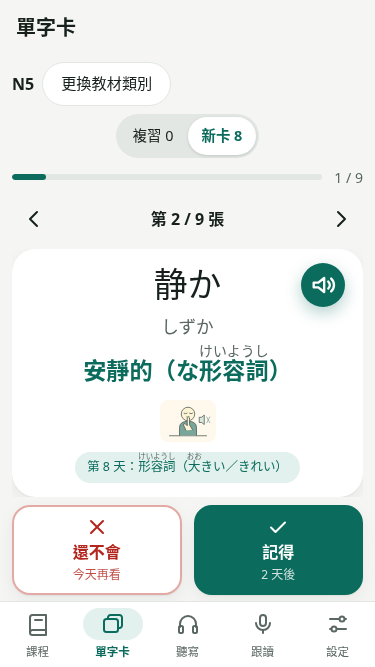
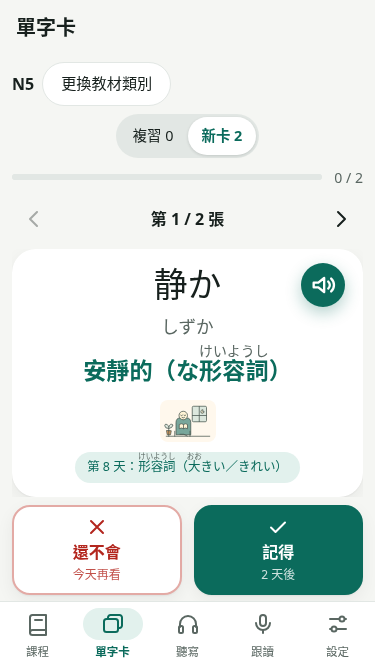
fix: clarify repeat action and quiet scene illustrations

diff --git a/docs/vocab-illustration-semantic-prototype.md b/docs/vocab-illustration-semantic-prototype.md
@@ -13,22 +13,22 @@
 | 渡す／わたす | 交給、遞（て形：渡して） | stage0-day14:渡す | handing.svg | 左方主動者伸手把盒子交向右方收件者，色彩及箭頭提示交付方向。 |
 | 重い／おもい | 重的 | stage0-day8:重い | heavy.svg | 彎膝且吃力的人抱重物並出汗，重點是負重特徵，不是石塊本身。 |
 | 冷たい／つめたい | 冰的、涼的（東西、水） | stage0-day12:冷たい | cold.svg | 手接觸有冰塊的冷水杯，表現物體冷的觸感，不用全身發抖代替天氣冷。 |
-| 静か／しずか | 安靜的（な形容詞） | stage0-day8:静か | quiet.svg | 安靜姿態與弱化聲音符號，輔助安靜狀態；不修改原有な形容詞解說。 |
+| 静か／しずか | 安靜的（な形容詞） | stage0-day8:静か | quiet.svg | 窗邊座椅、盆栽與放鬆閱讀者構成安靜環境；以環境狀態輔助，不用噤聲或禁止符號。 |
 | 約束／やくそく | 約定 | general-listening-03:約束 | promise.svg | 握手與沒有文字的約定日曆，呈現雙方約定日後碰面的具體情境。 |
 | 理由／りゆう | 理由 | general-listening-23:理由 | reason.svg | 灑水造成滑倒的同一微情境，用箭頭連結原因與結果；只是一個理由的例子。 |
 | 安心／あんしん | 安心 | general-listening-15:安心 | relief.svg | 收到報平安訊息後放鬆、手放胸前與舒氣，表達主觀放心，非只畫安全盾牌。 |
 | ゆっくり／ゆっくり | 慢慢地 | general-listening-02:ゆっくり | slowly.svg | 同一個人輕鬆小步移動、短距腳印與小鐘，表現慢慢走這個方式，不等同所有慢。 |
 | 一緒に／いっしょに | 一起 | general-listening-17:一緒に | together.svg | 兩人共同抬同一個箱子，以共同行動表達一起，不將圖限定為搬家詞。 |
-| もう一度／もういちど | 再一次 | stage0-day14:もう一度 | again.svg | 左邊已完成的同一按鈕動作，單一返回箭頭引向右邊再按一次；不是無限重複。 |
+| もう一度／もういちど | 再一次 | stage0-day14:もう一度 | again.svg | 同一個按鈕與按下動作，環繞該按鈕的清楚回返箭頭表示再做一次；沒有下一項或第二個按鈕。 |
 
 ## 審查焦點與需確認的表現方式
 
 - 圖是揭示答案後的記憶聯想，不是看圖猜詞或完整字典定義。所有文字／讀音／翻譯仍是學習主體，不用圖中文字直接寫答案。
 - 渡す：左方主動交付者比右方接收者更突出，物件和方向箭頭形成交給對方；需確認不被誤讀為取走／拿回，不能未核實就套受け取る或くれる。
-- 冷たい：冰水與接觸手，重點是物體觸感，區別天氣寒い；静か以安靜姿態與低聲符號輔助，不新增命令句。
+- 冷たい：冰水與接觸手，重點是物體觸感，區別天氣寒い；静か修訂為窗邊安靜環境，沒有手指貼唇或靜音叉號；書本只作環境線索之一。
 - 約束：握手＋約定日曆，只是一種約定場景，不把所有約束解釋為商業契約。理由：以灑水→滑倒表現「發生此事的原因」，仍可能被單看為滑倒，需使用者／reviewer確認文字下方輔助圖是否足夠清楚；不宣稱單圖能涵蓋所有理由。
 - 安心：報平安訊息與放鬆姿態，表達主觀放心，不拿客觀安全盾牌代替。ゆっくり：小步、放鬆姿態與腳印／小鐘表現動作方式，非只畫步行名詞。
-- 一緒に：兩人共同抬同一箱子，顯示共同行動。もう一度：同型按鈕的完成／再按兩狀態及單一箭頭；需審查是否會誤讀成下一個。這兩項不未經確認就推廣其他時間或次序副詞。
+- 一緒に：兩人共同抬同一箱子，顯示共同行動。もう一度：依P2改成單一按鈕、單一按下動作與環繞回返箭頭；移除兩個不同顏色按鈕與往下一項的線索。這兩項不未經確認就推廣其他時間或次序副詞。
 - 上述語義有界線者是本輪要審查的設計，不把待確認的抽象表現方式算成全站配圖完成；不同詞沒有套同一泛用圖。
 
 ## 來源、容量與驗證
@@ -70,3 +70,19 @@
 微情境是原創詞義示例，不宣稱來自該課對話或作品台詞，也不修改對話。冷たい最初曲線可能像蒸氣，校準為冰晶後重新完整check／build／預算與四組60流程，畫面均為校準後版本。
 
 ![走る揭示前無圖](previews/t154-running-front-375.png)
+
+## PR #160 兩圖定點修訂（2026-10-22；待原reviewer複核）
+
+審查30825bc指出もう一度較像「完成後下一項」（P2），静か偏向噤聲指示（可選改善）；本次依使用者決定兩張都修訂。只改again.svg、quiet.svg與本節／預覽／必要紀錄，映射包含內部說明欄位完整保持，DOM仍為空alt；其餘52圖SHA保持。舊7962-byte／60流程紀錄是修訂前的驗證歷史，不代替本次兩圖驗證。
+
+目前12試作圖8210 bytes，總54圖30477 bytes；相較30825bc增加248 bytes。332 tests／check、正式base build通過，precache21,379,441／26,869,829 bytes、533 URL、餘5,490,388；main gzip65661／630000與CSS5068／5800不變，沒有改統計範圍或快取契約。兩圖逐張XML、安全內容及56×42實際瀏覽器渲染檢視通過。
+
+375×667隔離Chromium兩圖×新卡／複習×線上／真正離線，共8次主要流程，驗證揭示前無圖、揭示後56×42與空alt／無冗餘圖片名稱、文字置中、1倍播放、評分／改評、滑動不評分、進度保存與無關合成進度保持。離線以BrowserContext.setOffline(true)、實際reload及每次播放前未快取請求ERR_INTERNET_DISCONNECTED確認；兩模式全部54圖離線SHA吻合，另清HTTP快取並移除一張precache圖驗證缺圖退化及下一張恢復，零pageerror／水平溢位。原12詞其他驗證沿用既有證據，未重做全案或宣稱真機／實體螢幕閱讀器通過。
+
+原reviewer只需複核這兩圖的語義修正及本節證據；PR維持Draft、未合併、未部署，等待使用者與reviewer確認，不擴大到其他詞。
+
+![静か修訂放大圖](previews/t154-quiet-revised-large.png)
+
+![もう一度修訂放大圖](previews/t154-again-revised-large.png)
+
+375寬實際卡片見上方更新的静か與もう一度預覽；總覽已同步修訂，沒有用示意圖代替卡片截圖。
